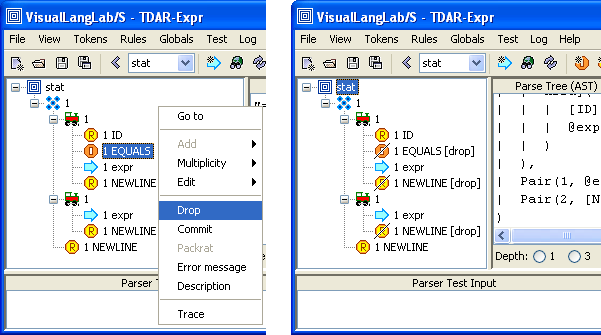
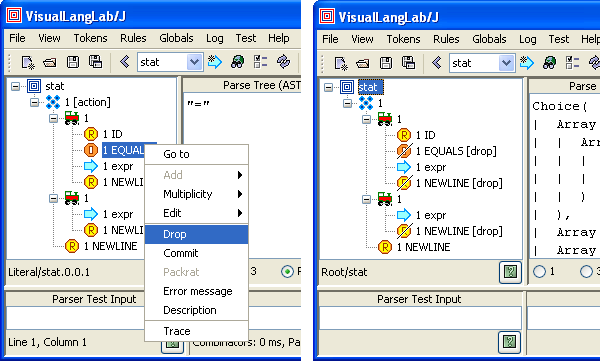
Documentation updates for Ver-10.
git-svn-id: https://svn.java.net/svn/vll~svn/trunk@311 c0272bae-d8de-c28f-bcdf-8b42aff4940e

diff --git a/VLLS/docs/examples/a-quick-tour-legacy.html b/VLLS/docs/examples/a-quick-tour-legacy.html
@@ -22,20 +22,9 @@ The grammars used can be found online at this link:
 http://pragprog.com/titles/tpantlr/source_code</a>
 </p>
 
-<table border="1" style="border: 1px solid red;" width="100%"><tr><td>
-You should be using VisualLangLab version-10 or higher, else follow 
-<a href="a-quick-tour-legacy.html">this tutorial</a> instead. 
-Beginning version 10, the title bar of the <i>About VisualLangLab</i> 
-dialog box displays the version number (select "Help" -> "About VisualLangLab" 
-from the main menu). 
-Upgrading to the latest version is strongly recommended. 
-</td></tr></table>
-
 <p>
-This tutorial is not a feature comparison of the two tools. 
-It merely uses a familiar scenario (for many parsing-tool users) 
-to illustrate the use of VisualLangLab. 
-The suitability of VisualLangLab for any particular application 
+The purpose of this tutorial is to provide a familiar scenario for most users of parsing tools, 
+not a feature comparison. The suitability of VisualLangLab for any particular application 
 must be evaluated from the documentation and examples at the 
 <a href="http://vll.java.net/">VisualLangLab website</a>.  
 </p>
@@ -51,16 +40,15 @@ The following list describes some essential jargon.
       grammar specification used for parser-generation tools</li>
   <li><u>rule-tree</u>: the graphical tree-structured display of a grammar-rule 
       on the left side of the VisualLangLab GUI</li>
-  <li><u>saved-grammar</u>: An XML file containing a grammar specification 
-      produced ("File" -> "Save" from main menu) or used ("File" -> "Open" from main menu) 
-      by VisualLangLab</li>
+  <li><u>saved-grammar</u>: An XML file containing a grammar specification that is 
+      produced or consumed by VisualLangLab's File menu</li>
 </ul>
 
 <p>
-The only thing you need to follow this tutorial is the VisualLangLab JAR file 
-<a href="http://java.net/projects/vll/downloads/download/VLL4J.jar">VLL4J.jar</a>. 
-VisualLangLab is started by double-clicking <i>VLL4J.jar</i> (a 6.0+ JRE is required).
-No other software or tool is needed. 
+The only thing you need to follow this tutorial is the VisualLangLab all-inclusive JAR file 
+<a href="http://java.net/projects/vll/downloads/download/VLLS-All.jar">VLLS-All.jar</a>. 
+If you have a 6.0+ JRE installed, VisualLangLab is started by double-clicking <i>VLLS-All.jar</i>.
+No other software, tool, or skill is required. 
 </p>
 
 <h2 id="RecognizerForLanguageSyntax">Recognizer for Language Syntax</h2>
@@ -72,11 +60,11 @@ This part of the tutorial describes VisualLangLab equivalents of section 3.1
 The Definitive ANTLR Reference</a>. The description below shows how to create 
 the parser from scratch, but you can also inspect the complete parser by just 
 invoking "Help" -> "Sample grammars" -> "TDAR-Expr" from the main menu 
-as shown on the right side of Figure-1 below. 
+as shown on the right side of Figure-1 below (only for version-7.01 onwards). 
 </p>
 
 <p id="Figure1">
-  <img src="images/renaming-main-prog.png" alt="Renaming Main to prog" /><br />
+  <img src="images/renaming-main-prog-legacy.png" alt="Renaming Main to prog" /><br />
   <i>Figure-1. Renaming "Main" to "prog"</i>
 </p>
 
@@ -85,10 +73,9 @@ as shown on the right side of Figure-1 below.
 <p>
 VisualLangLab creates an empty parser-rule (or <i>grammar-tree</i>) 
 called <i>Main</i> at startup, and we can produce the 
-grammar-rule <i>prog</i> by renaming <i>Main</i>. Click the toolbar's <i>Rename rule</i> 
-button (<img src="../images/ToolBarButtonRenameRule.gif" alt="The reference icon" 
-align="center" />) and enter <i>prog</i> 
-into the dialog presented (lower left of Figure-1 above). The rule's name will be 
+grammar-rule <i>prog</i> by renaming <i>Main</i>. Click the <i>Rename rule</i> 
+button (under the red box on the left side of Figure-1 above) and enter <i>prog</i> 
+into the dialog presented (also shown in Figure-1 above). The rule's name will be 
 changed in the toolbar's dropdown list as well at the rule-tree's root icon 
 (see Figure-2 below). 
 </p>
@@ -101,16 +88,15 @@ The parser-rule <i>prog</i> is defined as follows.
 
 <p>
 So we must create the grammar-rule <i>stat</i> before we can complete <i>prog</i>. 
-Click the <i>New rule</i> button (<img src="../images/ToolBarButtonNewRule.gif" 
-alt="The reference icon" align="center" />), 
+Click the <i>New rule</i> button (under red box on the left side of Figure-2 below), 
 and enter <i>stat</i> into the dialog presented. After the new rule has been created 
-and displayed (right side of Figure-2), click the <i>back</i> button 
+(and displayed as on the right side of Figure-2), click the <i>back</i> button 
 or select <i>stat</i> from the toolbar's drop-down list 
-(see right side of Figure-2) to return to <i>prog</i>. 
+(both identified on the right side of Figure-2 below) to return to <i>prog</i>. 
 </p>
 
 <p id="Figure2">
-  <img src="images/creating-stat.png" alt="Creating rule 'stat'" /><br />
+  <img src="images/creating-stat-legacy.png" alt="Creating rule 'stat'" /><br />
   <i>Figure-2. Creating rule 'stat'</i>
 </p>
 
@@ -126,7 +112,7 @@ A "+" sign next to the reference icon indicates that the multiplicity has been c
 </p>
 
 <p id="Figure3">
-  <img src="images/populating-prog.png" alt="Populating rule 'prog'" /><br />
+  <img src="images/populating-prog-legacy.png" alt="Populating rule 'prog'" /><br />
   <i>Figure-3. Populating rule 'prog'</i>
 </p>
 
@@ -158,7 +144,7 @@ sequence icons attached to the choice node (bottom right of Figure-4).
 </p>
 
 <p id="Figure4">
-  <img src="images/populating-stat.png" alt="Populating rule 'stat'" /><br />
+  <img src="images/populating-stat-legacy.png" alt="Populating rule 'stat'" /><br />
   <i>Figure-4. Populating rule 'stat'</i>
 </p>
 
@@ -195,7 +181,7 @@ following texts into the dialog: "<code>INT&nbsp;&nbsp;\\d+</code>" and
 </p>
 
 <p id="Figure5">
-  <img src="images/stat-tokens.png" alt="Creating tokens for 'stat'" /><br />
+  <img src="images/stat-tokens-legacy.png" alt="Creating tokens for 'stat'" /><br />
   <i>Figure-5. Creating tokens for 'stat'</i>
 </p>
 
@@ -224,7 +210,7 @@ on the right side of Figure-6 below.
 </p>
 
 <p id="Figure6">
-  <img src="images/stat-completion-one.png" alt="Completing (1) rule 'stat'" /><br />
+  <img src="images/stat-completion-one-legacy.png" alt="Completing (1) rule 'stat'" /><br />
   <i>Figure-6. Completing (1) rule 'stat'</i>
 </p>
 
@@ -243,7 +229,7 @@ This is the complete <i>stat</i> rule.
 </p>
 
 <p id="Figure7">
-  <img src="images/stat-completion-two.png" alt="Completing (2) rule 'stat'" /><br />
+  <img src="images/stat-completion-two-legacy.png" alt="Completing (2) rule 'stat'" /><br />
   <i>Figure-7. Completing (2) rule 'stat'</i>
 </p>
 
@@ -268,7 +254,7 @@ one on the left of Figure-8 below.
 </p>
 
 <p id="Figure8">
-  <img src="images/expr-completion.png" alt="Completing rule 'expr'" /><br />
+  <img src="images/expr-completion-legacy.png" alt="Completing rule 'expr'" /><br />
   <i>Figure-8. Completing rule 'expr'</i>
 </p>
 
@@ -296,7 +282,7 @@ The finished parser-rule should look like the one in Figure-9 below.
 </p>
 
 <p id="Figure9">
-  <img src="images/multExpr-completion.png" alt="Completing rule 'multExpr'" /><br />
+  <img src="images/multExpr-completion-legacy.png" alt="Completing rule 'multExpr'" /><br />
   <i>Figure-9. Completing rule 'multExpr'</i>
 </p>
 
@@ -320,7 +306,7 @@ Figure-10 below.
 </p>
 
 <p id="Figure10">
-  <img src="images/atom-completion.png" alt="Completing rule 'atomExpr'" /><br />
+  <img src="images/atom-completion-legacy.png" alt="Completing rule 'atomExpr'" /><br />
   <i>Figure-10. Completing rule 'atomExpr'</i>
 </p>
 
@@ -335,7 +321,7 @@ regular-expression ("<code>\\s+</code>"). You should change the value to
 </p>
 
 <p id="Figure11">
-  <img src="images/whitespace.png" alt="Specifying whitespace" /><br />
+  <img src="images/whitespace-legacy.png" alt="Specifying whitespace" /><br />
   <i>Figure-11. Specifying whitespace</i>
 </p>
 
@@ -393,7 +379,7 @@ GUI after the test.
 </p>
 
 <p id="Figure12">
-  <img src="images/test-one.png" alt="Performing test 1" /><br />
+  <img src="images/test-one-legacy.png" alt="Performing test 1" /><br />
   <i>Figure-12. Performing test 1</i>
 </p>
 
@@ -419,13 +405,8 @@ If you see error messages or find other problems, verify the following:
       (without the quote marks)</li>
 </ul>
 
-<table border="1" style="border: 1px solid red;" width="100%"><tr><td align="center">
-CAUTION<br/>
-The following text has not been updated for version 10. 
-</td></tr></table>
-
 <p id="Figure13">
-  <img src="images/editing-token-patterns.png" alt="Editing token patterns" /><br />
+  <img src="images/editing-token-patterns-legacy.png" alt="Editing token patterns" /><br />
   <i>Figure-13. Editing token patterns</i>
 </p>
 
@@ -436,8 +417,8 @@ on the next line as in Figure-12 above).
 </p>
 
 <p id="Figure14">
-  <img src="images/test-two.png" alt="Test two" /><br />
-  <img src="images/test-three.png" alt="Test three" /><br />
+  <img src="images/test-two-legacy.png" alt="Test two" /><br />
+  <img src="images/test-three-legacy.png" alt="Test three" /><br />
   <i>Figure-14. Testing error cases</i>
 </p>
 
@@ -519,7 +500,7 @@ the GUI somewhat, and you may notice small delays when opening such grammar file
 </p>
 
 <p id="Figure14">
-  <img src="images/actions-prog.png" alt="Action for rule 'prog'" /><br />
+  <img src="images/actions-prog-legacy.png" alt="Action for rule 'prog'" /><br />
   <i>Figure-14. Action for rule 'prog'</i>
 </p>
 
@@ -559,7 +540,7 @@ so that node must be selected to display the action-code function.
 </p>
 
 <p id="Figure15">
-  <img src="images/actions-stat.png" alt="Action for rule 'stat'" /><br />
+  <img src="images/actions-stat-legacy.png" alt="Action for rule 'stat'" /><br />
   <i>Figure-15. Action for rule 'stat'</i>
 </p>
 
@@ -614,7 +595,7 @@ so that node must be selected to display the action-code function.
 </p>
 
 <p id="Figure16">
-  <img src="images/actions-atom.png" alt="Action for rule 'atom'" /><br />
+  <img src="images/actions-atom-legacy.png" alt="Action for rule 'atom'" /><br />
   <i>Figure-16. Action for rule 'atom'</i>
 </p>
 
@@ -659,7 +640,7 @@ so that node must be selected to display the action-code function.
 </p>
 
 <p id="Figure17">
-  <img src="images/actions-multExpr.png" alt="Action for rule 'multExpr'" /><br />
+  <img src="images/actions-multExpr-legacy.png" alt="Action for rule 'multExpr'" /><br />
   <i>Figure-17. Action for rule 'multExpr'</i>
 </p>
 
@@ -696,7 +677,7 @@ so that node must be selected to display the action-code function.
 </p>
 
 <p id="Figure18">
-  <img src="images/actions-expr.png" alt="Action for rule 'expr'" /><br />
+  <img src="images/actions-expr-legacy.png" alt="Action for rule 'expr'" /><br />
   <i>Figure-18. Action for rule 'expr'</i>
 </p>
 
@@ -737,7 +718,7 @@ Proceed as follows.
 </ul>
 
 <p id="Figure19">
-  <img src="images/test-action-one.png" alt="Testing the action code" /><br />
+  <img src="images/test-action-one-legacy.png" alt="Testing the action code" /><br />
   <i>Figure-19. Testing the action code</i>
 </p>
 
@@ -797,7 +778,7 @@ side of Figure-20 shows the <i>stat</i> rule with several tokens dropped.
 </p>
 
 <p id="Figure20">
-  <img src="images/drop-stat-one.png" alt="Dropping part of an AST" /><br />
+  <img src="images/drop-stat-one-legacy.png" alt="Dropping part of an AST" /><br />
   <i>Figure-20. </i>Drop<i>ping part of an AST</i>
 </p>
 
@@ -918,7 +899,7 @@ As usual, remember to have a NEWLINE after the end of the last line of input.
 </p>
 
 <p id="Figure21">
-  <img src="images/action-code-ast.png" alt="Processing AST" /><br />
+  <img src="images/action-code-ast-legacy.png" alt="Processing AST" /><br />
   <i>Figure-21. Processing AST</i>
 </p>
 
@@ -1009,7 +990,7 @@ been altered to arrange them in order of specificity. The rules are otherwise un
 </p>
 
 <p id="Figure22">
-  <img src="images/tree-based-interpreter.png" alt="Interpreter in action code" /><br />
+  <img src="images/tree-based-interpreter-legacy.png" alt="Interpreter in action code" /><br />
   <i>Figure-22. Interpreter in action code</i>
 </p>
 
